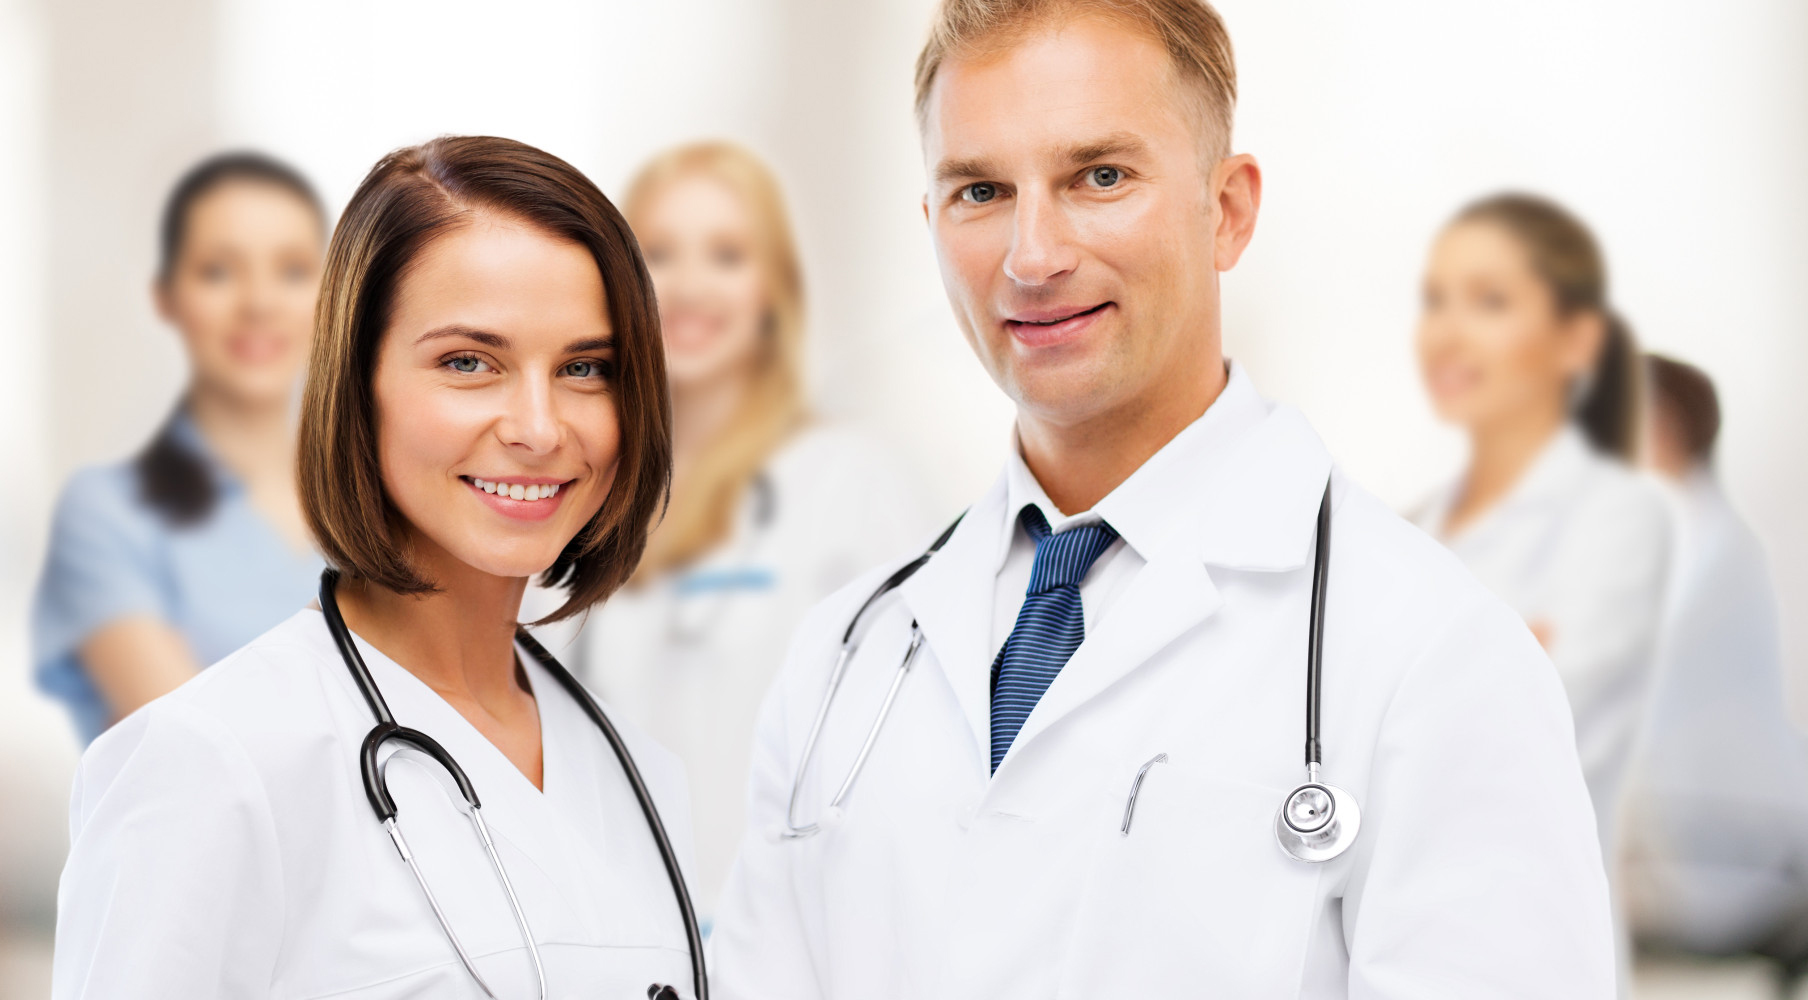
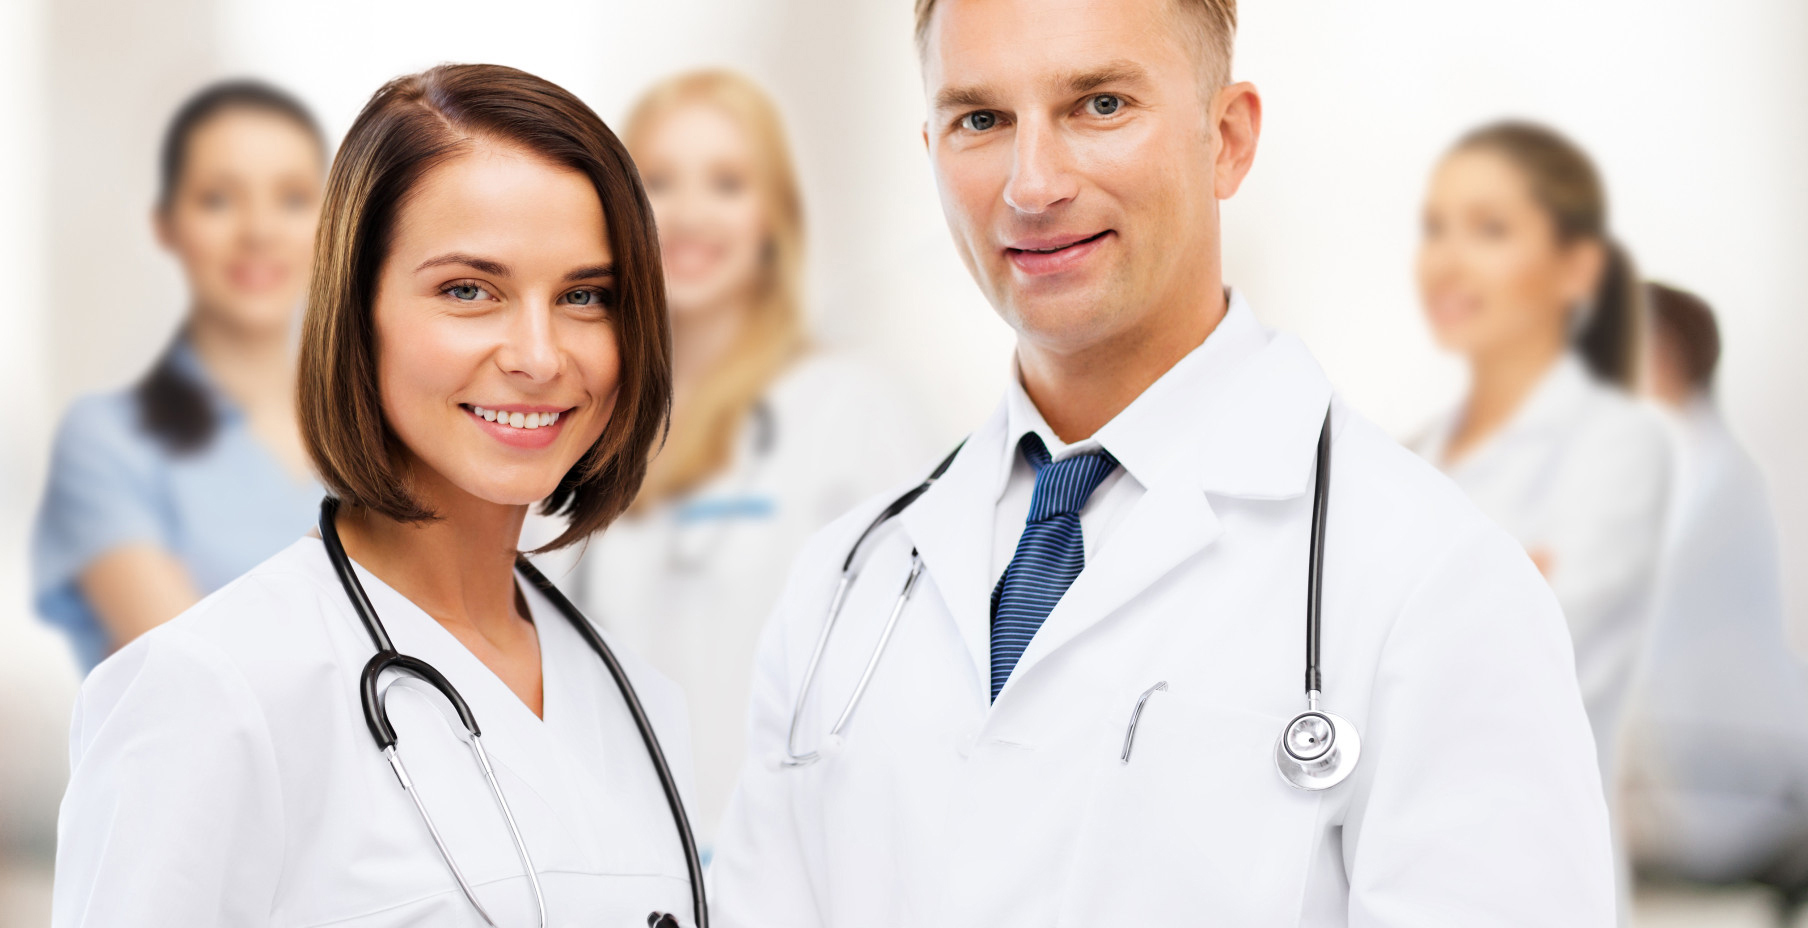
facebok card

diff --git a/app/assets/stylesheets/pages/_home.scss b/app/assets/stylesheets/pages/_home.scss
@@ -86,7 +86,7 @@
 }
 
 .banner-content {
-  background-color: rgba(255,255,255,0.9);
+  background-color: rgba(255,255,255,0.7);
   border-radius: 5px;
   padding: 9px;
   padding-right: 24px;

diff --git a/app/assets/stylesheets/components/_banner.scss b/app/assets/stylesheets/components/_banner.scss
@@ -7,7 +7,7 @@
   display: flex;
   align-items: center;
   justify-content: center;
-  padding-top: 70px;
+  padding-top: 199px;
 }
 
 
